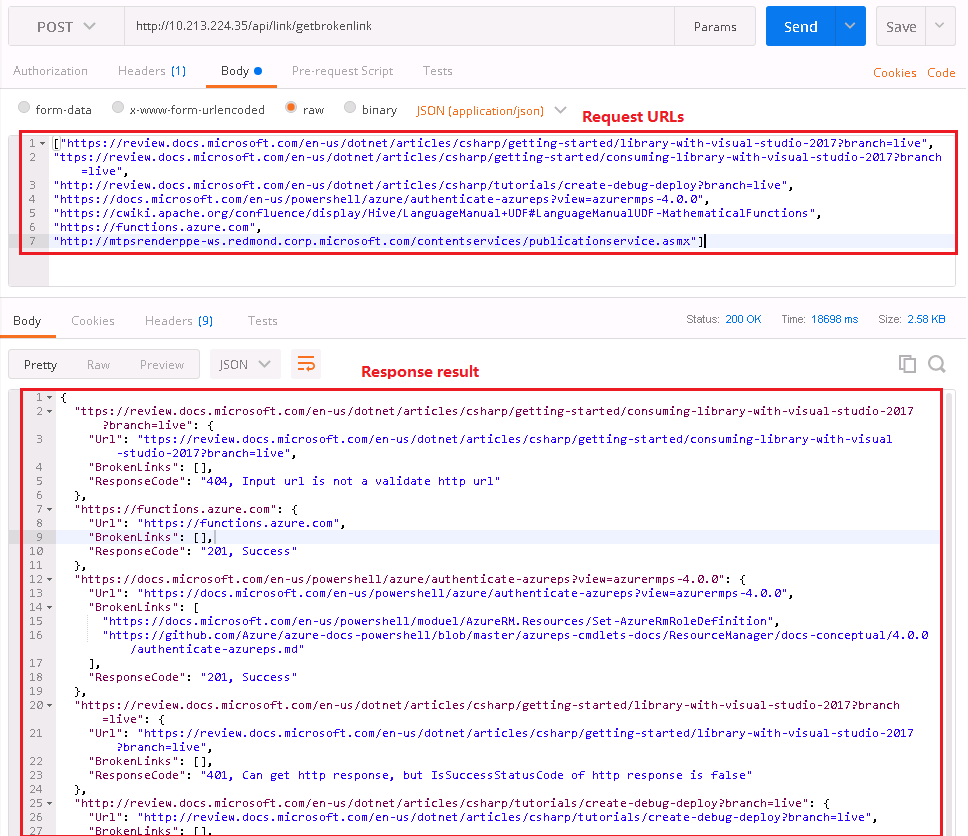
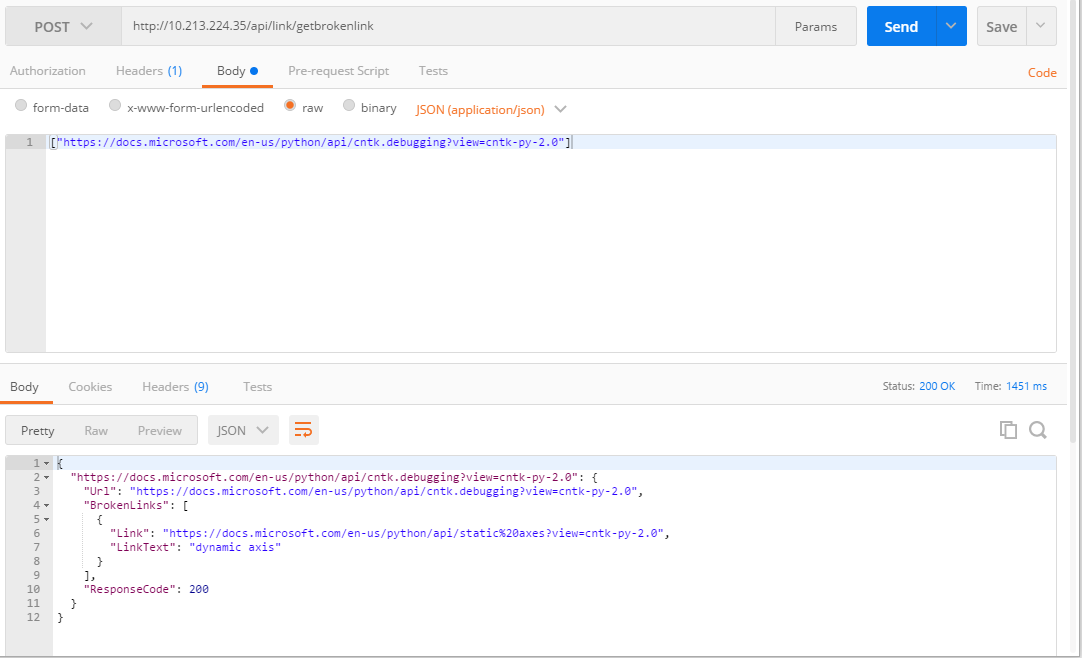
For CATS document test

diff --git a/CATS_spec/docs-content-e2e/CATS-Web-Service.md b/CATS_spec/docs-content-e2e/CATS-Web-Service.md
@@ -32,62 +32,158 @@ List the requirements that the web service should satisfy in order of priority:
 
 ## <a id='usage'></a> Usage
 ### <a id='host'></a> Host
-The web service access url would be: http://10.213.224.35/api/link/getbrokenlink
+* The web service host URL is http://10.213.224.35/, 
+* Access url is: http://10.213.224.35/api/link/getbrokenlink
 
 ### Call
 User could call the web service either via UI tool or via code
 
-* Via UI Tool, recommended tool is Chrome [PostMan](https://www.getpostman.com/), it’s a Chrome app that operation easily
-    1. Launch **PostMan** from Chrome (Open blank page in chrome, click Apps in the upper left corner then click PostMan)
-    2. Entry access url mentioned in [Host](#host) part. Select *HttpMethod* as **Post**
-    3. Click Body, select **raw** and **JSON(application/json)**
-    4. In request body, input url list with **JSON** format.
-        + Single Input Url
-            - Format: ["URL1"] 
-		    - For example ["https://docs.microsoft.com/en-us/"]
-        + Multiple input URLs, the input urls count of this web service is limited to 1000.
-            - Format: ["URL1","UrL2","URL3"] 
-		    - For example
-    
-    ```
-    ["https://docs.microsoft.com/es-es/windows/manage/group-policies-for-enterprise-and-education-editions",https://docs.microsoft.com/en-us/windows-server-essentials/use/work-remotely-in-windows-server-essentials"]
-    ```
+#### Via UI Tool, recommended tool is Chrome [PostMan](https://www.getpostman.com/), it’s a Chrome app that operation easily
+1. Launch **PostMan** from Chrome (Open blank page in chrome, click Apps in the upper left corner then click PostMan)
+2. Entry access url mentioned in [Host](#host) part. Select *HttpMethod* as **Post**
+3. Click Body, select **raw** and **JSON(application/json)**
+4. In request body, input url list with **JSON** format. The input urls count is limited to 1000 <br>
+Request header：
 
-    5. Click **Send** to get output broken links
-    ![Call Web Service Througn PostMan image](../Images/Call_Web_Service_Througn_PostMan.png)
-    6. Check Result
-        In response body, select Json format.
-        - **Url**: the request URL        
-        - **BrokenLinks**: Broken Link list in request test pages. If no broken links, the value is null
-        - **ResponseCode**: The response status of URL request.
-            - 201, Success
-            - 404, Input url is not a validate http url( not starts from http or https)
-            - 401, Can get http response, but IsSuccessStatusCode of http response is false
-            - 400, Can't get http response
+|Field  |Value |
+|-------|-------|
+|Method |Post|
+|Request URL |{Host}/api/link/getbrokenlink <br> e.g. http://10.213.224.35/api/link/getbrokenlink |
+|Body|Option: raw, Json <br> Content: <ul><li>["Single URL"]</li><li>["URL1", "URL2","URL3"]</li></ul>|
 
-* Via code
-    1. Define a class named `LinkServiceResponse` which contains Url (type is string), BrokenLinks (type is List<string>, broken link collection) and Success(type is string, a flag to determine if input url itself is a broken link)
+5. Click **Send** to get output broken links
+![Call Web Service Througn PostMan image](../Images/Call_Web_Service_Througn_PostMan.png)
+6. View Result
+    In response body, select Json format.
+    - **Url**: the input URL        
+    - **BrokenLinks**: 
+        * The webservice will get urls in main body. 
+        * If there is Broken Link in request test pages, it would report the link and link text, or the value is null.
+        * If there is one link with multiple link text, it will report all.
+        * If there are multiple link and link text is the same, will report one and skip the rest.
+        * It would skip example link. (exclude example links by keywords and [example link writelist](https://review.docs.microsoft.com/en-us/help/onboard/example-link-white-list)
+    - **ResponseCode**: The response status of URL request.
+        - 200: Success
+        - 1000: Can't get http response
+        - 1001: Can get http response, but IsSuccessStatusCode of http response is falseCan get http response, but IsSuccessStatusCode of http response is false
+        - 1002: Input url is not a validate http url
+        - 1003: Internal docs url and need user to login
 
-    ```C#
-    public class LinkServiceResponse
+        You can call the API via httpget method with no input parameter to check the definitions of response code 
+
+    |Field	|Value|
+    |------|-------|
+	|Method|get|
+	|Request URL	|{Host}/api/link/getresponsecode <br>e.g. http://10.213.224.35/api/link/getresponsecode |
+
+    ![Get Response Code](../Images/Get_Response_Code.png)
+
+#### Via code
+1. Define a class named LinkServiceResponse which contains Url (type is string), BrokenLinks (type is List<LinkObject>, broken link collection) and ResponseCode(type is int, different response code represents different result, defined in #2)
+
+```C#
+public class LinkServiceResponse
+{
+	public string Url { get; set; }
+	public List<LinkObject> BrokenLinks { get; set; } = new List<LinkObject>();
+	public int ResponseCode { get; set; }
+}
+```
+
+Definition of LinkObject:
+```
+public class LinkObject
+{
+	public string Link { get; set; }
+	public string LinkText { get; set; }
+}
+```
+
+2. Define a method to send httprequest with request url is http://10.213.224.35/, accepted header should be `application/json`. Sample code would be as following:
+
+```C#
+public static async Task<ConcurrentDictionary<string, LinkServiceResponse>> GetBrokenLinks(IList<string> inputUrls, string requestUrl)
+{
+	var result = new ConcurrentDictionary<string, LinkServiceResponse>();
+	Httpclient.BaseAddress = new Uri(requestUrl);
+	Httpclient.DefaultRequestHeaders.Accept.Clear();
+	Httpclient.DefaultRequestHeaders.Accept.Add(new MediaTypeWithQualityHeaderValue("application/json"));
+	 
+	var content = new StringContent(JsonConvert.SerializeObject(inputUrls), Encoding.UTF8, "application/json");
+	// HTTP POST
+	HttpResponseMessage response = await Httpclient.PostAsync("api/link/getbrokenlink", content);
+	if (response.IsSuccessStatusCode)
+	{
+	string data = await response.Content.ReadAsStringAsync();
+	result = JsonConvert.DeserializeObject<ConcurrentDictionary<string, LinkServiceResponse>>(data);
+	}
+	       return result;
+}
+```
+
+3. Specific input urls and get broken links
+    Sample code would be as following:
+
+```C#
+var requestUrl = "http://10.213.224.35/";
+var inputUrlList = new List<string>
+{
+    "https://docs.microsoft.com/en-us/python/api/cntk.debugging?view=cntk-py-2.0",
+};
+ 
+var brokenLinks = GetBrokenLinks(inputUrlList, requestUrl).GetAwaiter().GetResult();
+```
+
+4. Verify output result
+    Output result would be as following:
+    ![Call_Web_Service_Via_Code](../Images/Call_Web_Service_Via_Code.png)
+5. Completed Sample code:
+
+```C#
+using Newtonsoft.Json;
+using Newtonsoft.Json.Serialization;
+using System;
+using System.Collections.Concurrent;
+using System.Collections.Generic;
+using System.IO;
+using System.Linq;
+using System.Net;
+using System.Net.Http;
+using System.Net.Http.Headers;
+using System.Reflection;
+using System.Text;
+using System.Threading.Tasks;
+ 
+namespace CallWebService
+{
+    class Program
     {
-            public string Url { get; set; }
-            public List<string> BrokenLinks { get; set; } = new List<string>();
-            public bool Success { get; set; }
-    }
-    ```
-    2. Define a method to send httprequest with request url is http://10.213.224.35/, accepted header should be `application/json`. Sample code would be as following:
-    
-    ```C#
-    public static async Task<ConcurrentDictionary<string, LinkServiceResponse>> GetBrokenLinks(IList<string> inputUrls, string requestUrl)
+        public static readonly HttpClient Httpclient = new HttpClient();
+ 
+        static void Main(string[] args)
+        {
+            var requestUrl = "http://10.213.224.35/";
+            var inputUrlList = new List<string>
+            {
+                "https://docs.microsoft.com/en-us/python/api/cntk.debugging?view=cntk-py-2.0",
+            };
+ 
+            var brokenLinks = GetBrokenLinks(inputUrlList, requestUrl).GetAwaiter().GetResult();
+ 
+            Console.ReadKey();
+        }
+ 
+        public static async Task<ConcurrentDictionary<string, LinkServiceResponse>> GetBrokenLinks(IList<string> inputUrls, string requestUrl)
         {
             var result = new ConcurrentDictionary<string, LinkServiceResponse>();
             Httpclient.BaseAddress = new Uri(requestUrl);
             Httpclient.DefaultRequestHeaders.Accept.Clear();
-            Httpclient.DefaultRequestHeaders.Accept.Add(new MediaTypeWithQualityHeaderValue("application/json")); 
+            Httpclient.DefaultRequestHeaders.Accept.Add(new MediaTypeWithQualityHeaderValue("application/json"));
+ 
             var content = new StringContent(JsonConvert.SerializeObject(inputUrls), Encoding.UTF8, "application/json");
             // HTTP POST
             HttpResponseMessage response = await Httpclient.PostAsync("api/link/getbrokenlink", content);
+ 
             if (response.IsSuccessStatusCode)
             {
                 string data = await response.Content.ReadAsStringAsync();
@@ -96,83 +192,19 @@ User could call the web service either via UI tool or via code
             return result;
         }
     }
-```
-
-    3. Specific input urls and get broken links
-        Sample code would be as following:
-
-```C#
-        var requestUrl = "http://10.213.224.35/";
-        var inputUrlList = new List<string>
-        {
-            "https://docs.microsoft.com/es-es/windows/manage/group-policies-for-enterprise-and-education-editions",
-            "https://docs.microsoft.com/en-us/windows-server-essentials/use/work-remotely-in-windows-server-essentials"
-        }; 
-        var brokenLinks = GetBrokenLinks(inputUrlList, requestUrl).GetAwaiter().GetResult();
-```
-
-    4. Verify output result
-        Output result would be as following:
-        ![Call_Web_Service_Via_Code](../Images/Call_Web_Service_Via_Code.jpg)
-    5. Completed Sample code:
-```C#
-    	using Newtonsoft.Json;
-		using System;
-		using System.Collections.Concurrent;
-		using System.Collections.Generic;
-		using System.IO;
-		using System.Linq;
-		using System.Net;
-		using System.Net.Http;
-		using System.Net.Http.Headers;
-		using System.Text;
-		using System.Threading.Tasks;
-		 
-		namespace CallWebService
-		{
-		    class Program
-		    {
-		        public static readonly HttpClient Httpclient = new HttpClient();
-		 
-		        static void Main(string[] args)
-		        {
-		            var requestUrl = " http://10.213.224.35/";
-		            var inputUrlList = new List<string>
-		            {
-		                "https://docs.microsoft.com/es-es/windows/manage/group-policies-for-enterprise-and-education-editions",
-		                "https://docs.microsoft.com/en-us/windows-server-essentials/use/work-remotely-in-windows-server-essentials"
-		            };
-		 
-		            var brokenLinks = GetBrokenLinks(inputUrlList, requestUrl).GetAwaiter().GetResult();
-		 
-		            Console.ReadKey();
-		        }
-		 
-		        public static async Task<ConcurrentDictionary<string, LinkServiceResponse>> GetBrokenLinks(IList<string> inputUrls, string requestUrl)
-		        {
-		            var result = new ConcurrentDictionary<string, LinkServiceResponse>();
-		            Httpclient.BaseAddress = new Uri(requestUrl);
-		            Httpclient.DefaultRequestHeaders.Accept.Clear();
-		            Httpclient.DefaultRequestHeaders.Accept.Add(new MediaTypeWithQualityHeaderValue("application/json"));
-		 
-		            var content = new StringContent(JsonConvert.SerializeObject(inputUrls), Encoding.UTF8, "application/json");
-		            // HTTP POST
-		            HttpResponseMessage response = await Httpclient.PostAsync("api/link/getbrokenlink", content);
-		            if (response.IsSuccessStatusCode)
-		            {
-		                string data = await response.Content.ReadAsStringAsync();
-		                result = JsonConvert.DeserializeObject<ConcurrentDictionary<string, LinkServiceResponse>>(data);
-		            }
-		            return result;
-		        }
-		    }
-		 
-		    public class LinkServiceResponse
-		    {
-		        public string Url { get; set; }
-		        public List<string> BrokenLinks { get; set; } = new List<string>();
-		        public bool Success { get; set; }
-		    }
+ 
+    public class LinkServiceResponse
+    {
+        public string Url { get; set; }
+        public List<LinkObject> BrokenLinks { get; set; } = new List<LinkObject>();
+        public int ResponseCode { get; set; }
+    }
+ 
+    public class LinkObject
+    {
+        public string Link { get; set; }
+        public string LinkText { get; set; }
+    }
 }
 ```
 

diff --git a/CATS_spec/docs-content-e2e/CATS_ReleaseNote.md b/CATS_spec/docs-content-e2e/CATS_ReleaseNote.md
@@ -1,0 +1,25 @@
+# CATS Release Note
+ 
+## The Latest Version Release Note
+|Release Type |Changes|Release time|
+|--|--|--|
+|Weekly Release|<ul><li><b>Feature:</b><ul><li>Support testing for site "docs.azure.cn"</li><li>Support parse for fusion toc</li><li>Exclude example links from broken links testing</li><li>Make the authentication(cookie/token) can be renewed automatically</li></ul></li><li><b>UI:</b><ul><li>Show total tested pages number on run detail information part and summary report page</li></ul></li><li><b>API:</b><ul> <li>Provide API for creating content validation run</li></ul></li></ul>|05/27/2017(Shanghai)<br> 05/27/2017(Redmond)|
+
+## Previous Release Note for S118
+|Release Type|Changes|Release time|
+|--|--|--|
+|Weekly release|<ul><li><b>Feature:</b><ul><li>Support testing for site "docs.azure.cn"</li><li>Support parse for fusion toc</li><li>Exclude example links from broken links testing</li><li>Make the authentication(cookie/token) can be renewed automatically</li></ul></li><li><b>UI:</b><ul><li>Show total tested pages number on run detail information part and summary report page</li></ul></li><li><b>API:</b><ul> <li>Provide API for creating content validation run</li></ul></li></ul>|05/27/2017(Shanghai)<br> 05/27/2017(Redmond)|
+
+### Release Type
+There are 2 kinds of release for both CATS test and prod environment:
+
+|Release Type|Changes|Release time for Test Environment|Release time for Prod Environment|
+|--|--|--|--|
+|Weekly Release|Include all CATS develop works which have been completed in current week|Thursday Every Week|Monday Every Week|
+|OOB Release|Include some high priority bug/feature which need to be fixed at once|ASAP|ASAP|
+
+## Development Resources
+
+* If there is any issue/bug found for CATS, Please [create a CATS bug](https://mseng.visualstudio.com/CSI/Test/_workItems?witd=Bug&_a=new). 
+* If there is any suggestion for CATS, Please [create a CATS feature](https://mseng.visualstudio.com/CSI/Test/_workItems?witd=Bug&_a=new). 
+* If there is any question for CATS, Please send email to CATS Support [catssupport@microsoft.com](mailto:catssupport@microsoft.com).
